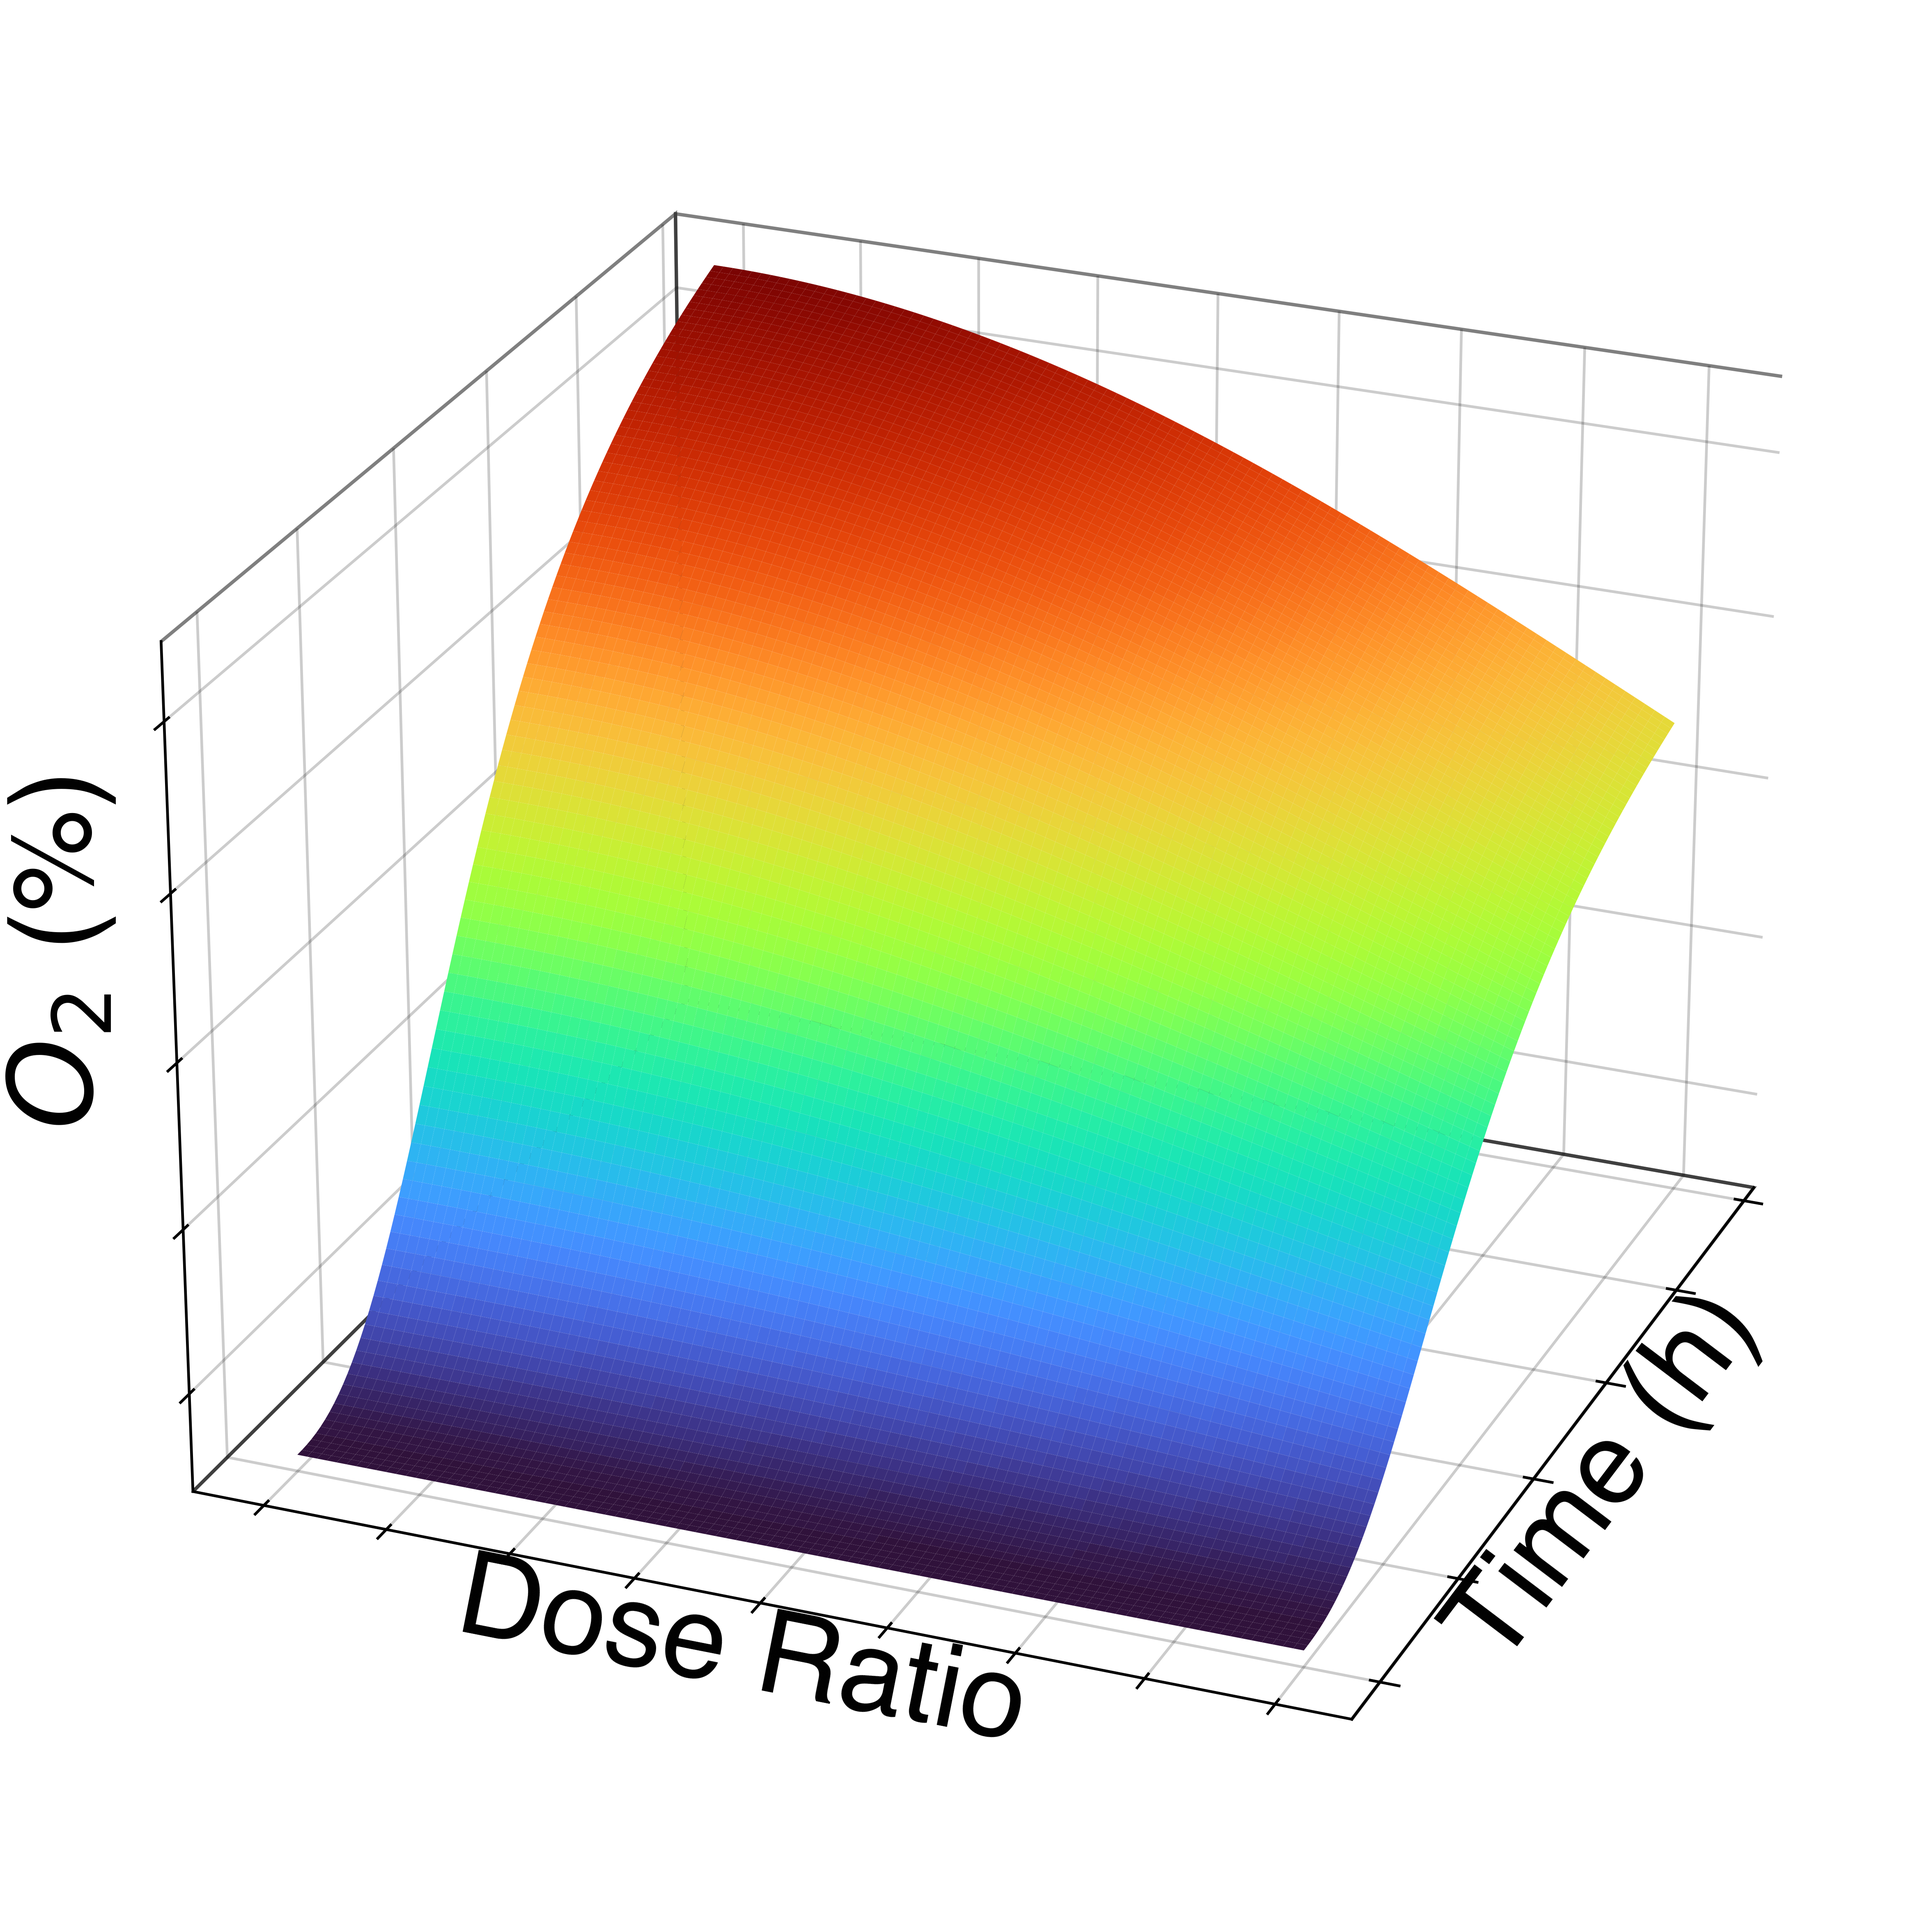
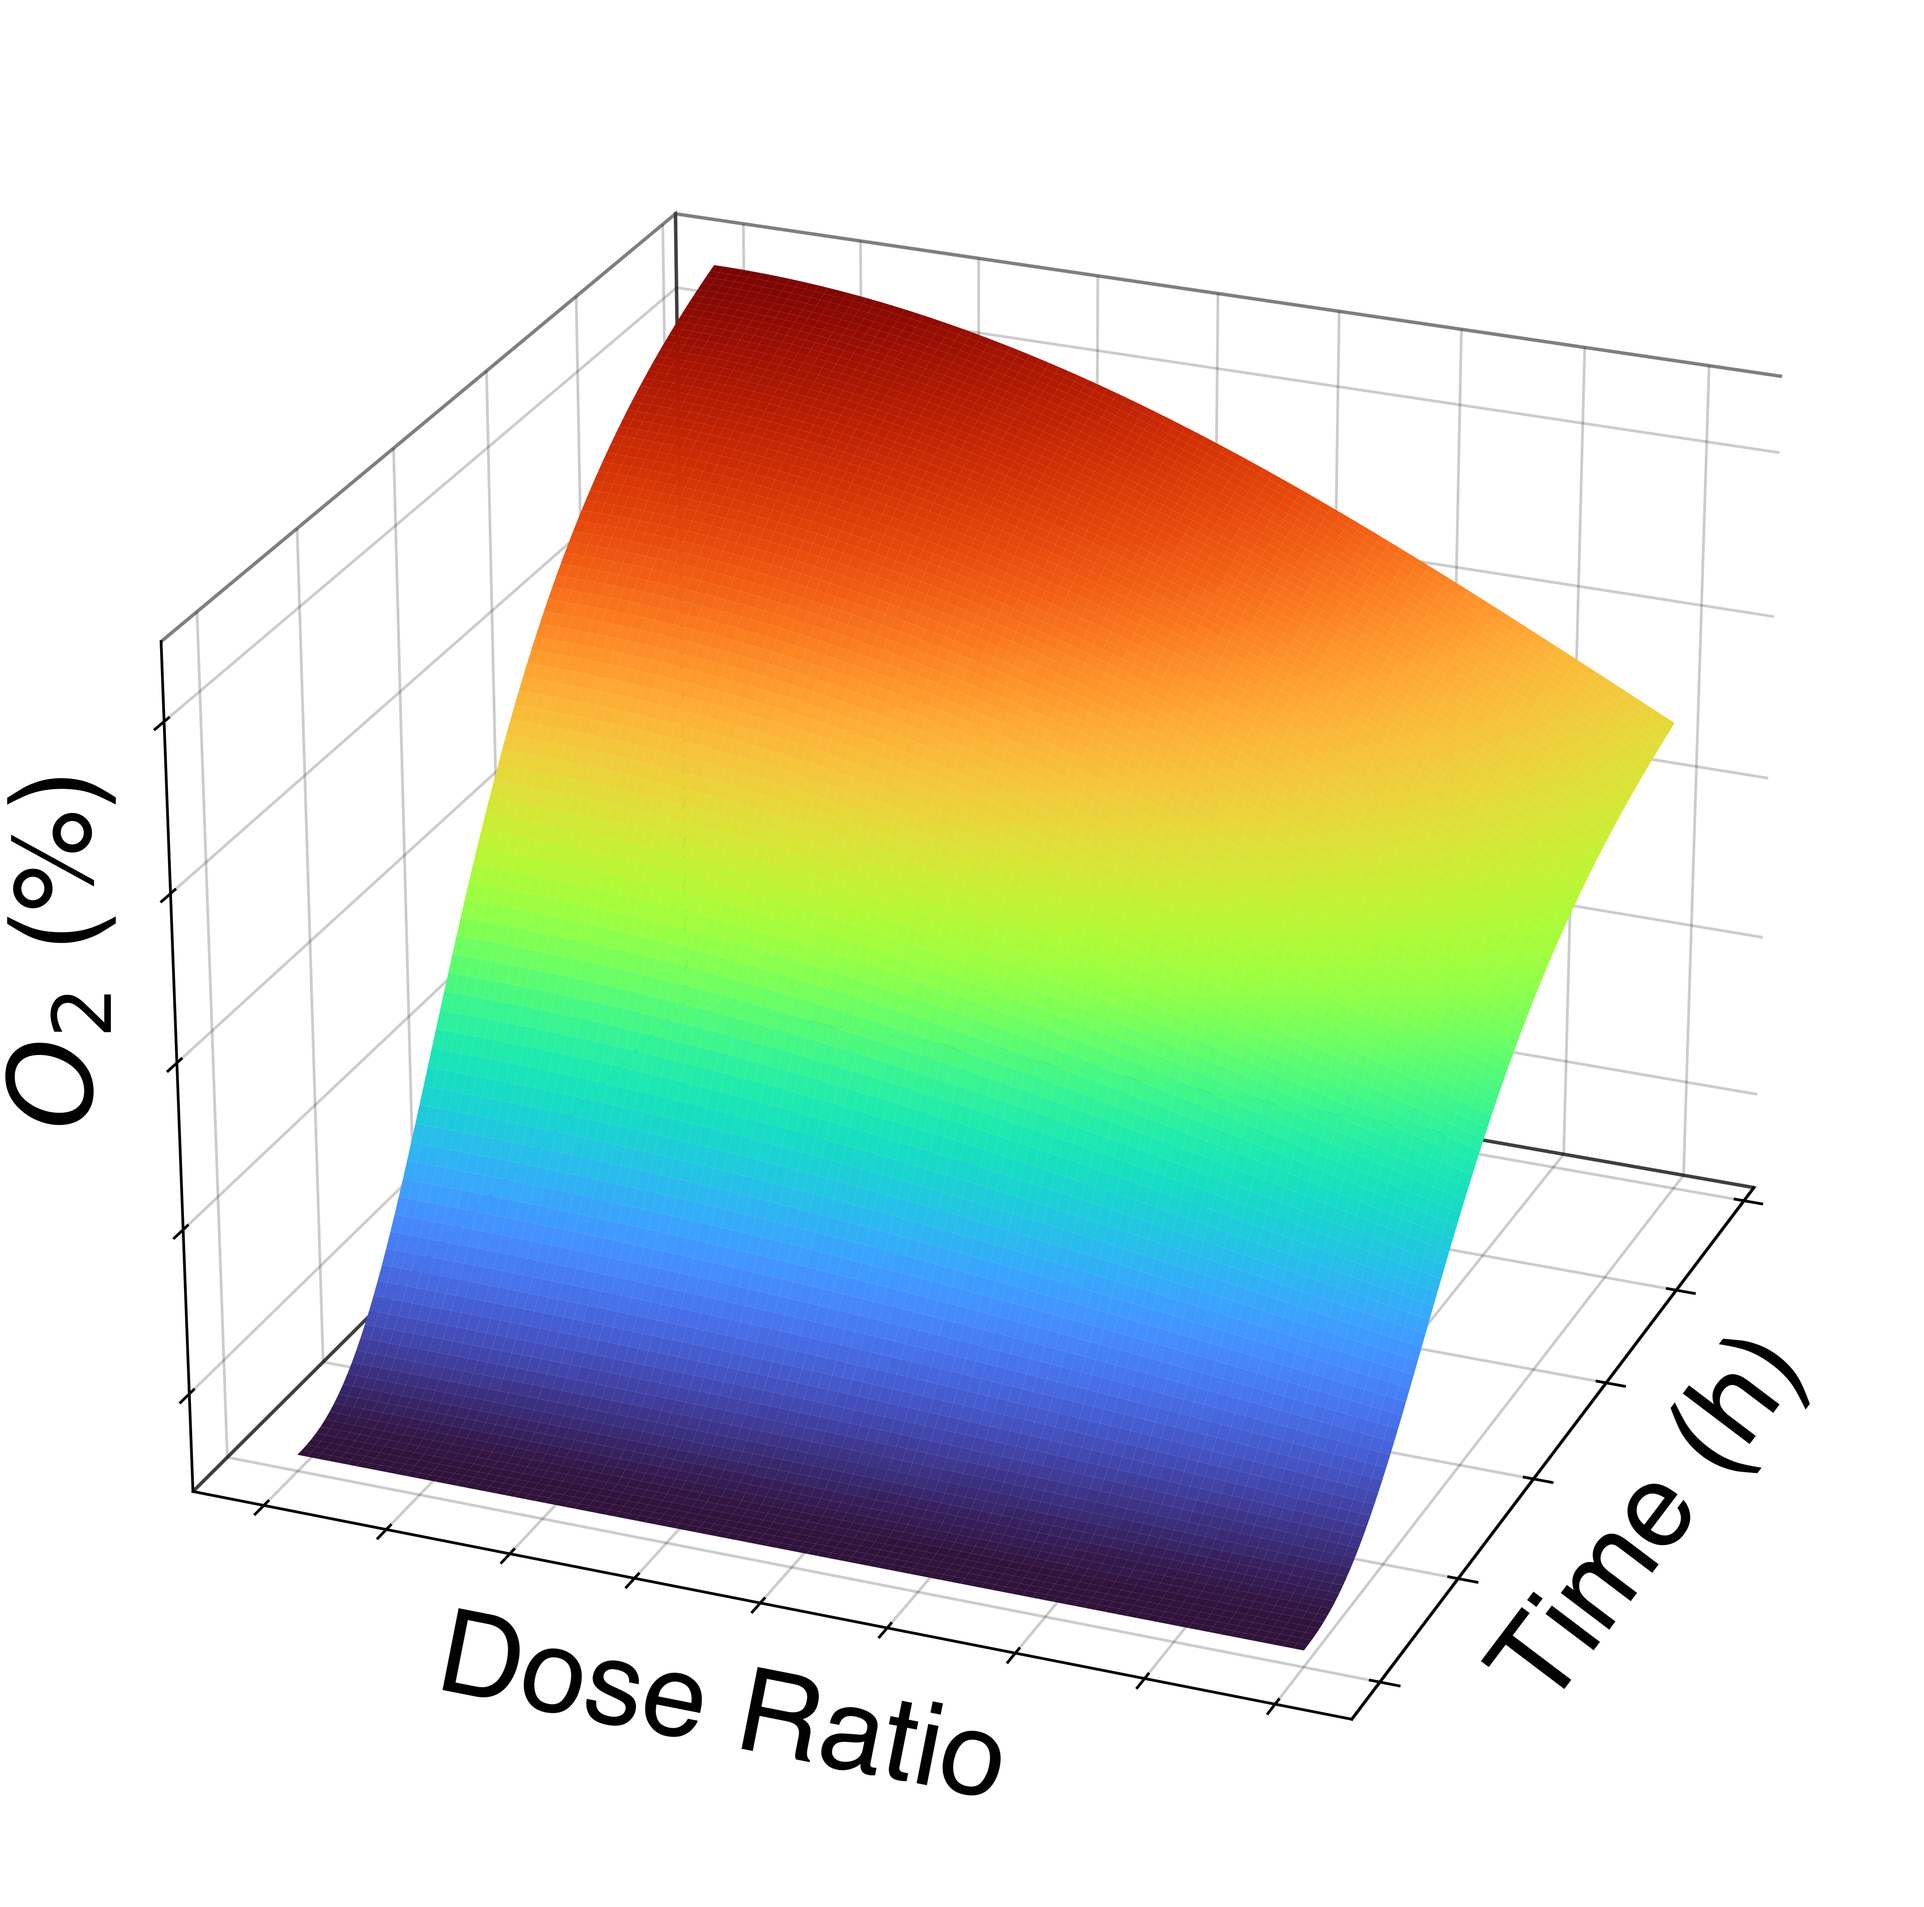
Fig 3b surfaces: explicit Helvetica TTF + axis label spacing
- Add _helvetica(size) helper that points FontProperties directly at fonts/helvetica.ttf
  (raises FileNotFoundError if missing — no silent fallback to Arial/DejaVu on any machine)
- Fig 3b axis labels (Time, Dose Ratio, O2) now use fontproperties=_helvetica(LABEL_SIZE_3B)
- Move Time/Dose Ratio labels slightly away from axis (labelpad -10 -> 2)

Changed region(s): [[0.2181, 0.8118, 0.5297, 0.9367], [0.7478, 0.6869, 0.9347, 0.8742]]

diff --git a/generate_paper_figures.py b/generate_paper_figures.py
@@ -63,6 +63,15 @@ FIGURES_DIR = PROJECT_ROOT / 'Output' / 'PowerPoint_Figures'
 REGISTRY_PATH = FIGURES_DIR / 'figure_registry.csv'
 QUICK_MODE = False  # Set via --quick flag; skips reprocessing if data already exists
 
+# Bypass matplotlib's name-based font lookup — point directly at the bundled
+# Helvetica TTF so no silent fallback to Arial/DejaVu can occur on any machine.
+from matplotlib import font_manager as _fm
+_HELVETICA_TTF = PROJECT_ROOT / 'fonts' / 'helvetica.ttf'
+if not _HELVETICA_TTF.exists():
+    raise FileNotFoundError(f'Bundled Helvetica TTF missing: {_HELVETICA_TTF}')
+def _helvetica(size):
+    return _fm.FontProperties(fname=str(_HELVETICA_TTF), size=size)
+
 # Standard figure sizes from skill (inches)
 SQUARE_SIZE = 1.7           # Standard square for bar charts, scatter, ROC, CM
 HEATMAP_WIDTH = 3.1         # Heatmap width (2x height) - sized so 2 fit side-by-side on slide
@@ -1434,11 +1443,14 @@ def generate_fig_3():
         ax_surf.yaxis.set_major_formatter(NullFormatter())
         ax_surf.zaxis.set_major_formatter(NullFormatter())
 
-        # Axis labels via set_xlabel/set_ylabel and text2D for Z
-        ax_surf.set_xlabel('Time (h)', fontsize=LABEL_SIZE_3B, labelpad=-10)
-        ax_surf.set_ylabel('Dose Ratio', fontsize=LABEL_SIZE_3B, labelpad=-10)
+        # Axis labels via set_xlabel/set_ylabel and text2D for Z.
+        # Use fontproperties=_helvetica(...) to point at the bundled TTF directly
+        # — guarantees Helvetica on any machine, no silent Arial/DejaVu fallback.
+        ax_surf.set_xlabel('Time (h)', fontproperties=_helvetica(LABEL_SIZE_3B), labelpad=2)
+        ax_surf.set_ylabel('Dose Ratio', fontproperties=_helvetica(LABEL_SIZE_3B), labelpad=2)
         ax_surf.text2D(0.05, 0.5, r'$O_2$ (%)', transform=ax_surf.transAxes,
-                       fontsize=LABEL_SIZE_3B, rotation=90, va='center', ha='right')
+                       fontproperties=_helvetica(LABEL_SIZE_3B),
+                       rotation=90, va='center', ha='right')
 
         surf_filename = f'{drug}_{eq_filename_map[eq_name]}.png'
         surf_path = fig3_dir / surf_filename
